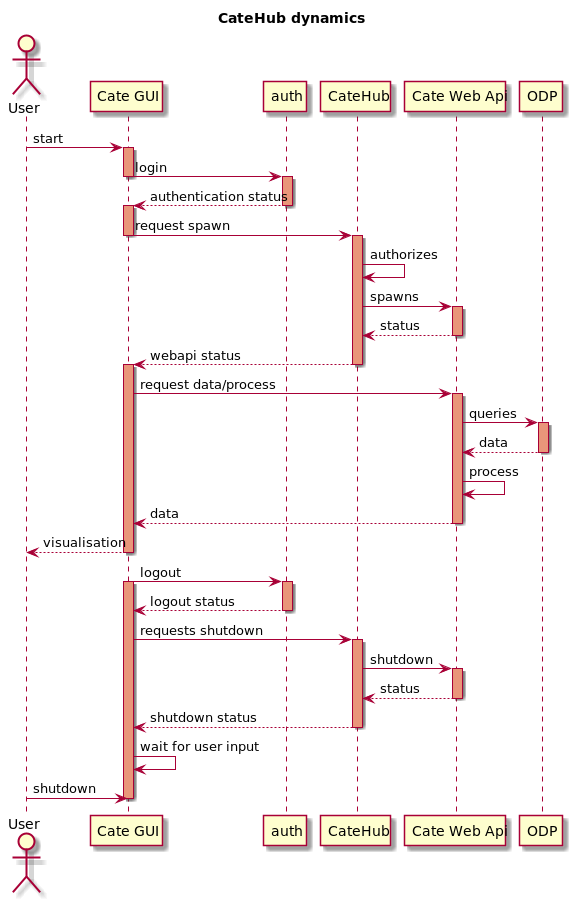
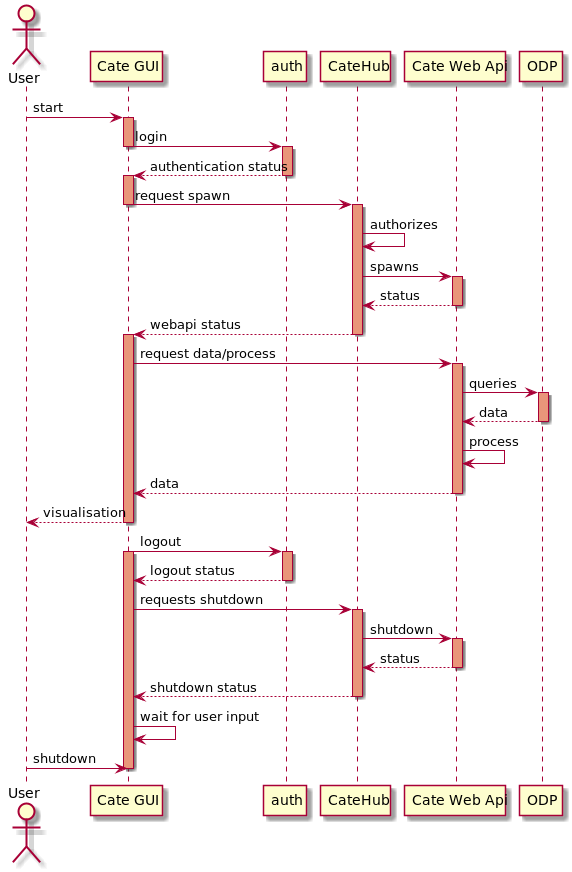
Added a catehub UML diagram and some test to describe it

diff --git a/docs/source/architecture.rst b/docs/source/architecture.rst
@@ -644,4 +644,26 @@ its interface to various identity providers.
 Cate SaaS Component Interactions
 --------------------------------
 
-TODO Helge
+This chapter describes and illustrates the interactions between components of the Cate SaaS.
+
+
+.. figure:: _static/uml/catehub.png
+   :scale: 55%
+   :align: left
+
+   Cate SaaS Component Interactions.
+
+The Cate SaaS comprises of four components: The Cate GUI, an authorisation layer, the CateHub, and the Cate Web API.
+The Cate GUI is the most visible component from the user's perspective. The Cate GUI is started by the user either by using
+a web representation of the Cate GUI or as an electron desktop application. The Cate GUI enables the user to spawn a Cate
+Web API "owned" by the user. Hence, authentication and authorisation is needed prior to the Web API's launch in order
+to ensure that teh user gets his or her own instance of the Cate Web API service. The CateHub component handles
+user authentication and authorization as well as spawning of the Cate Web API. However, once the Cate Web API has been
+spawned, the Cate GUI will directly communicate with its respective Cate Web API instance.
+
+It is finally the responsibility of the Cate Web API to handle requests regarding queries to the CCI Open Data Portal
+(ODP). In addition, the web API executes computational processes as defined by the user. Once queries and computations have
+been finished, the Cate Web API returns the results to the Cate GUI which consecutively visualises the results.
+
+
+
